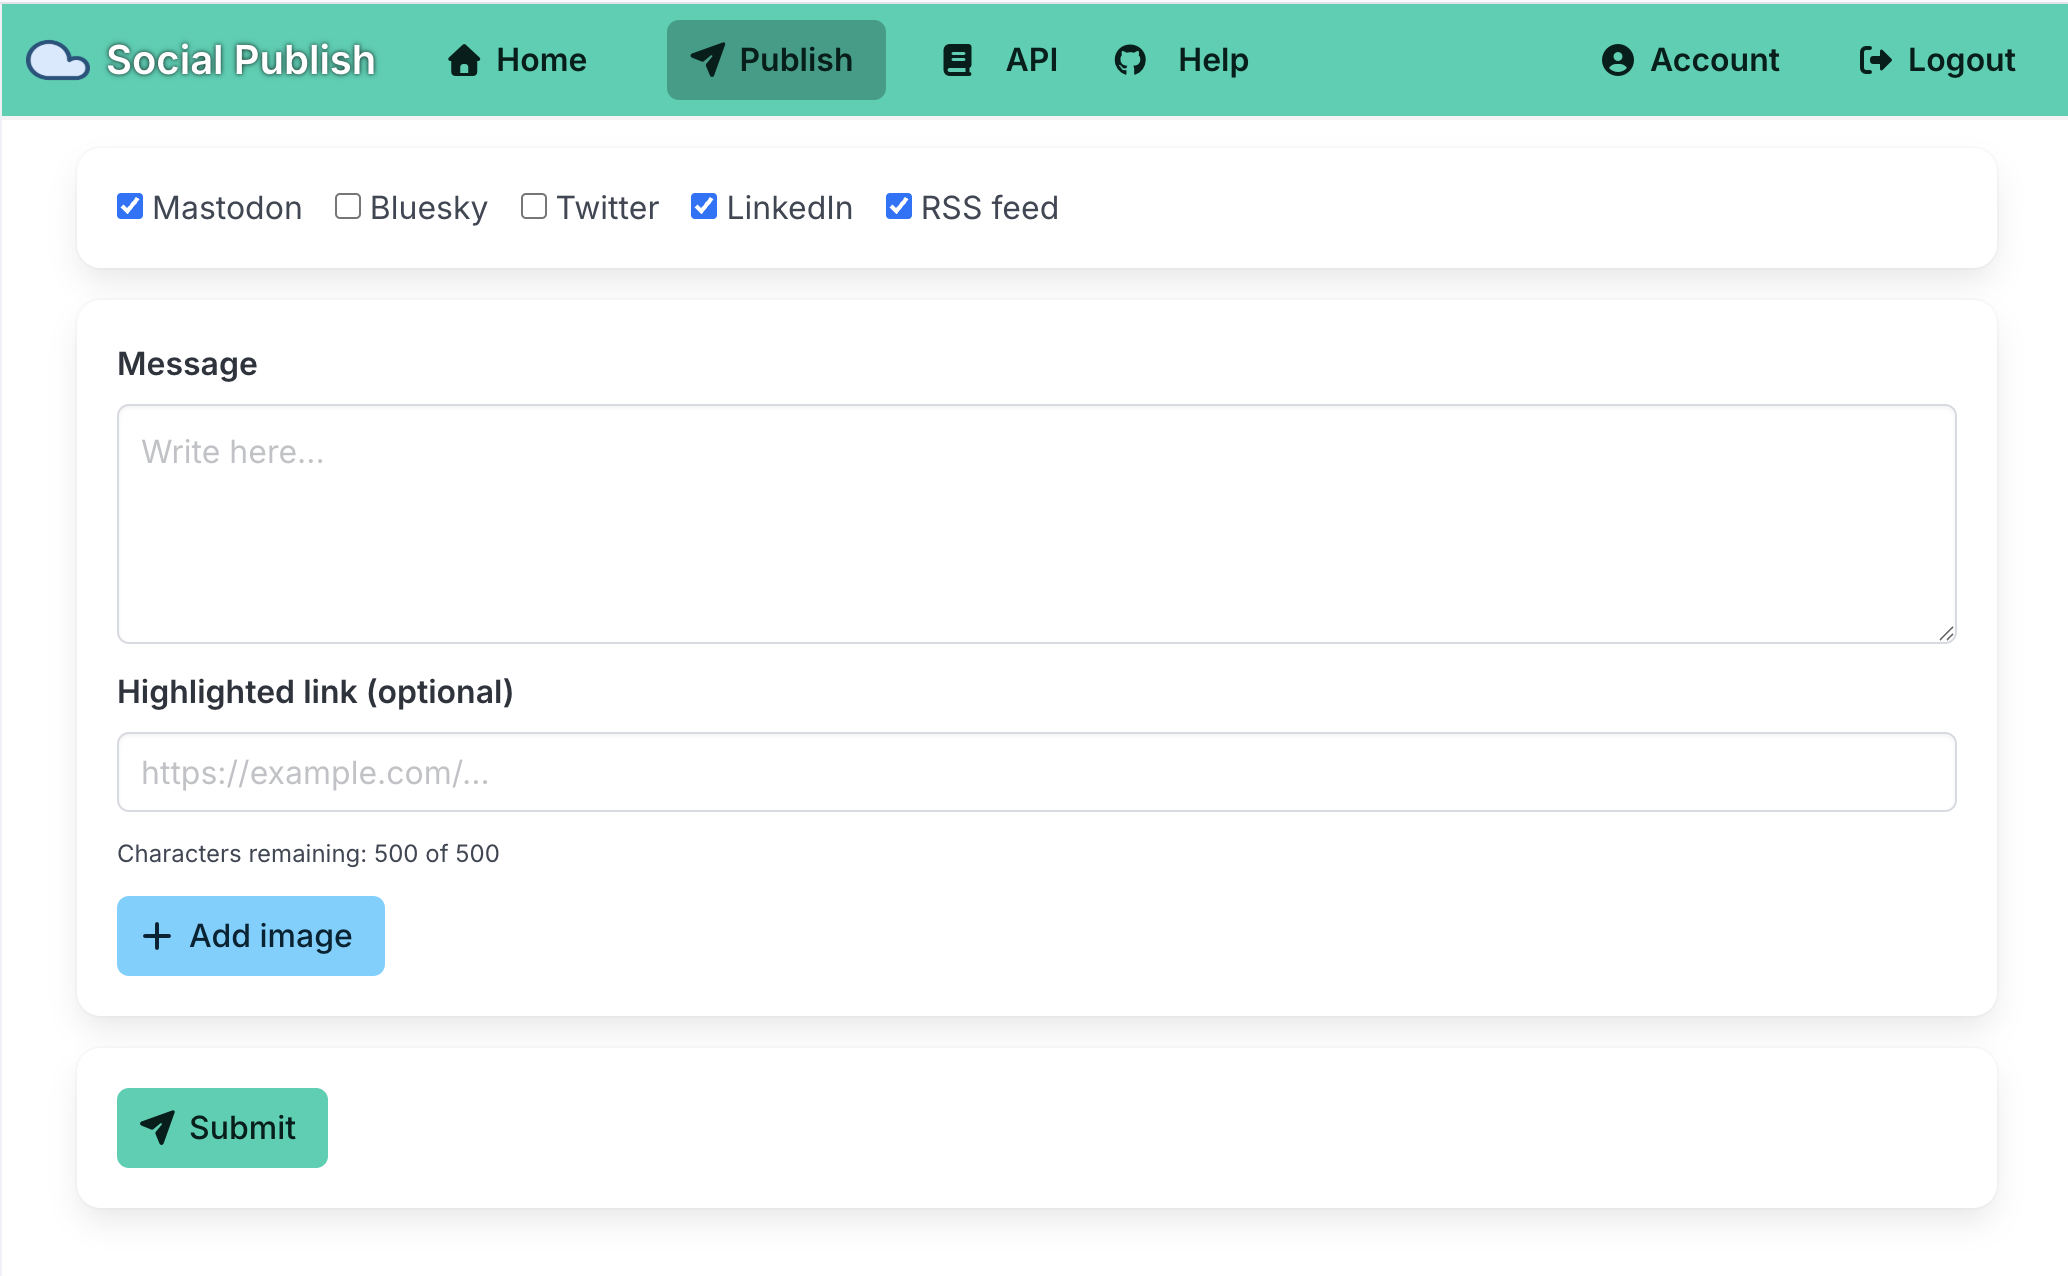
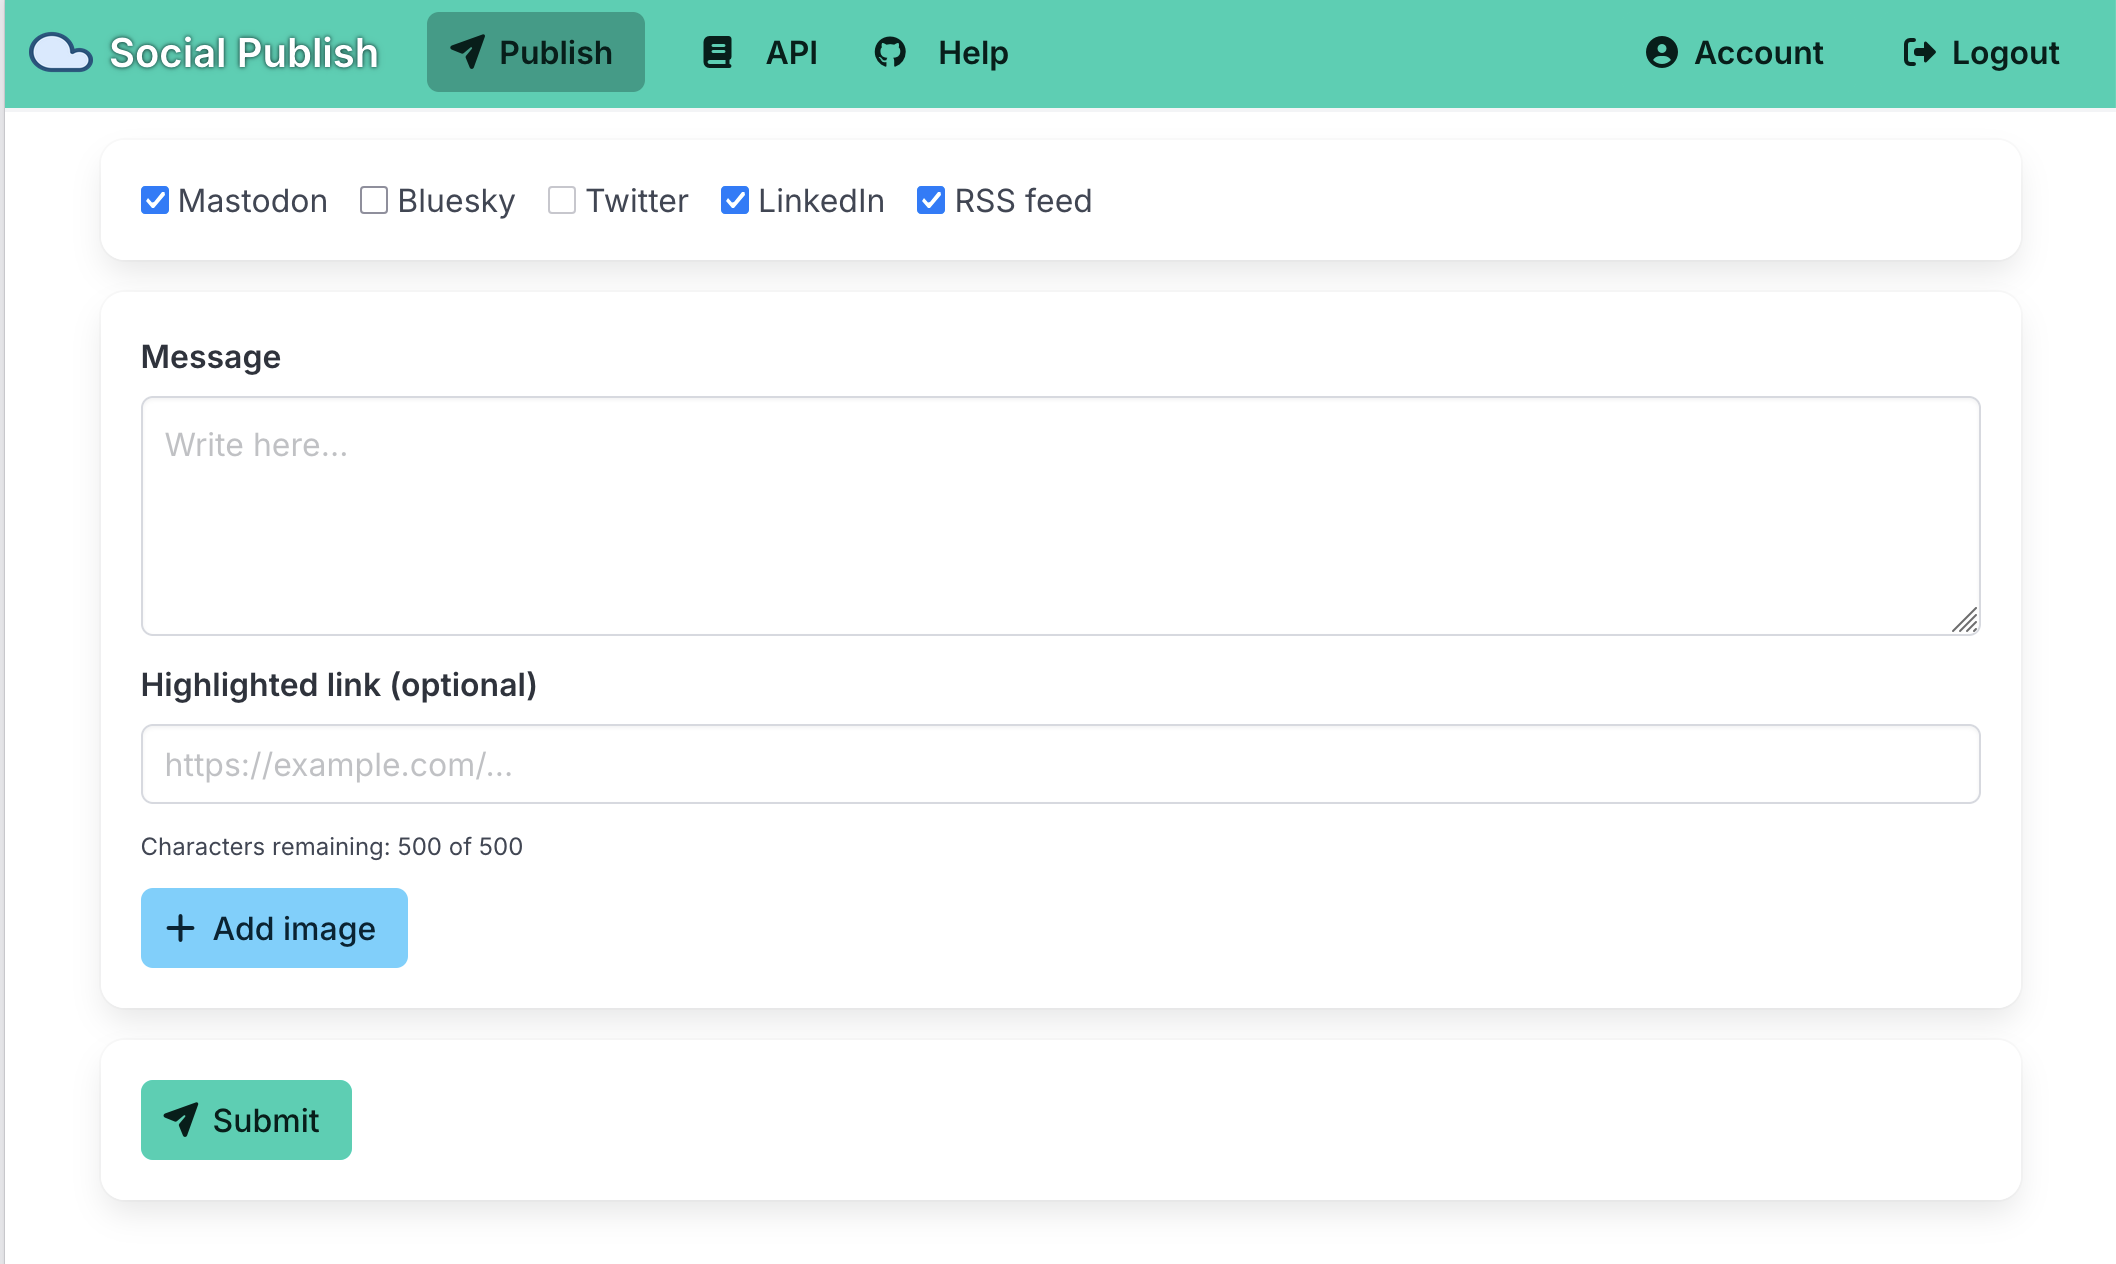
Remove Home, new screenshot

diff --git a/frontend/src/jsMain/kotlin/socialpublish/frontend/components/NavBar.kt b/frontend/src/jsMain/kotlin/socialpublish/frontend/components/NavBar.kt
@@ -86,19 +86,6 @@ fun NavBar(currentPath: String, onLogout: () -> Unit) {
             }
         ) {
             Div(attrs = { classes("navbar-start") }) {
-                Div(attrs = { classes("navbar-item") }) {
-                    Div(attrs = { classes("buttons") }) {
-                        // Home
-                        NavButton(
-                            href = "/",
-                            label = "Home",
-                            iconClasses = arrayOf("fas", "fa-home"),
-                            isActive = (currentPath == "/"),
-                            onClick = { navbarActive = false },
-                        )
-                    }
-                }
-
                 if (isLoggedIn) {
                     Div(attrs = { classes("navbar-item") }) {
                         Div(attrs = { classes("buttons") }) {

diff --git a/frontend/src/jsMain/kotlin/socialpublish/frontend/Main.kt b/frontend/src/jsMain/kotlin/socialpublish/frontend/Main.kt
@@ -8,6 +8,7 @@ import org.jetbrains.compose.web.renderComposable
 import socialpublish.frontend.components.NavBar
 import socialpublish.frontend.pages.*
 import socialpublish.frontend.utils.Storage
+import socialpublish.frontend.utils.navigateTo
 
 @JsModule("bulma/css/bulma.min.css") @JsNonModule external val bulmaStyles: dynamic
 
@@ -43,7 +44,7 @@ fun App() {
 
         Main {
             when (currentPath) {
-                "/" -> HomePage()
+                "/" -> RedirectToForm()
                 "/login" -> LoginPage()
                 "/form" -> PublishFormPage()
                 "/account" -> AccountPage()
@@ -51,4 +52,9 @@ fun App() {
             }
         }
     }
+}
+
+@Composable
+private fun RedirectToForm() {
+    LaunchedEffect(Unit) { navigateTo("/form") }
 }

diff --git a/frontend/src/jsMain/resources/index.html b/frontend/src/jsMain/resources/index.html
@@ -8,6 +8,7 @@
     <link rel="icon" href="/assets/icons/icon.svg" type="image/svg+xml">
     <link rel="apple-touch-icon" href="/assets/icons/apple-touch-icon.png"><!-- 180×180 -->
     <link rel="manifest" href="/site.webmanifest" />
+    <link rel="alternate" type="application/rss+xml" title="Social Publish RSS" href="/rss" />
     <meta name="theme-color" content="#03d0b1">
 </head>
 <body>
